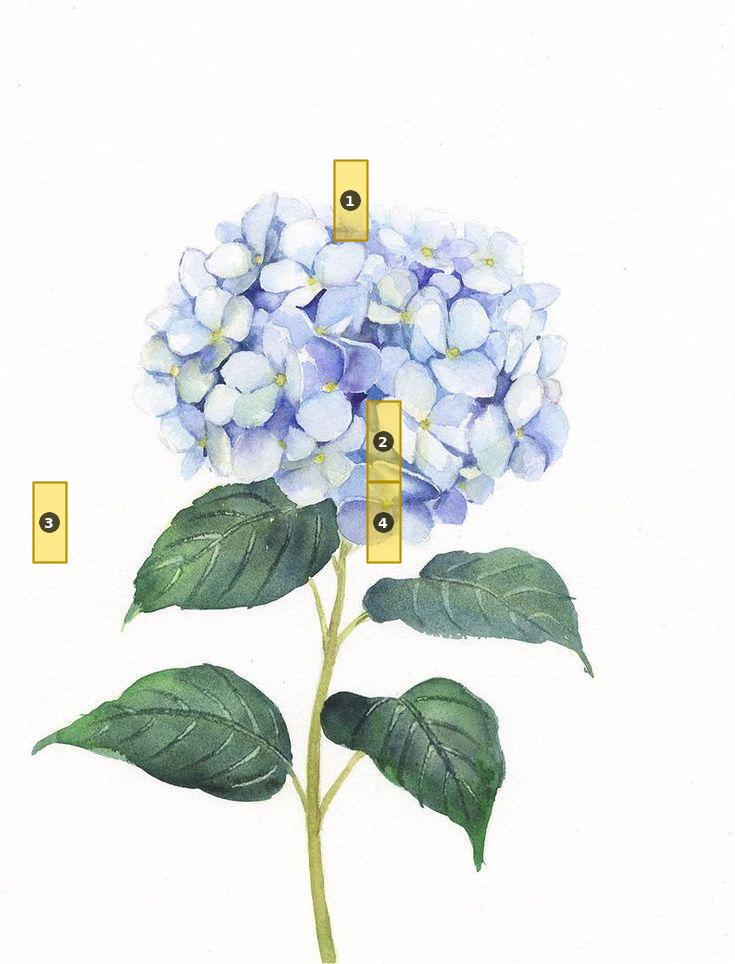
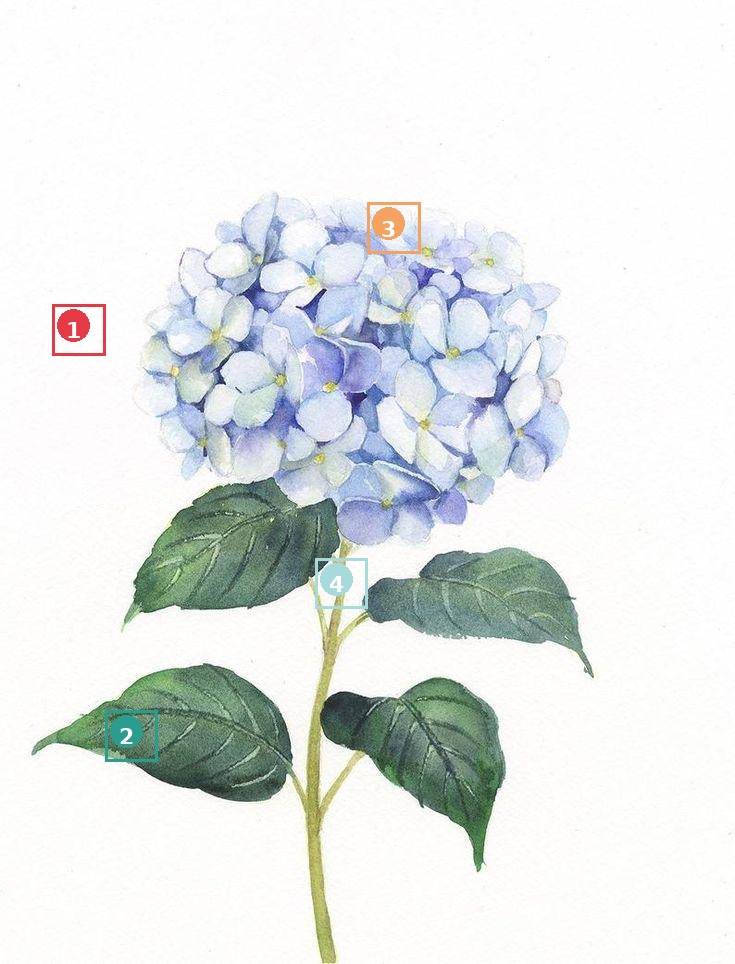
Improve hydrangea example, fix overclaiming, tighten prose
- Replace 4 near-identical flower patches with diverse selection:
  flowers, leaves, blue (color), stems — annotated with large colored badges
- ESC-50 conclusion: "not revealed by tools" not "model doesn't encode"
- Temporal figure caption: explain LogitLens absent before L28 (too few matches)
- Remove flowery "two panels tell different stories" opener
- Remove unsolicited "code available on request" note

diff --git a/gemma4-interp/index.html b/gemma4-interp/index.html
@@ -110,30 +110,35 @@ We apply two complementary probes to every visual/audio token at 12 selected lay
 <h3>Selected examples</h3>
 
 <div class="example-widget">
-  <div class="ex-label">Image 6 in demo (watercolor hydrangea), Layer 16 &mdash; purely semantic predictions, no text in image</div>
+  <div class="ex-label">Image 6 in demo (watercolor hydrangea), Layer 16 &mdash; semantic predictions across flower, leaf, color, and stem patches</div>
   <div style="display:flex;gap:20px;align-items:flex-start;margin-bottom:10px;">
-    <img src="figures/hydrangea_annotated.jpg" style="width:180px;border-radius:3px;border:1px solid #e0e0e0;flex-shrink:0;" alt="Watercolor hydrangea with highlighted patches">
+    <img src="figures/hydrangea_annotated.jpg" style="width:200px;border-radius:3px;border:1px solid #e0e0e0;flex-shrink:0;" alt="Watercolor hydrangea with highlighted patches">
     <table style="margin:0;">
-      <tr><th>#</th><th>LatentLens top predictions (normalized)</th></tr>
-      <tr><td>1</td><td>
-        <span class="pred top1">petals <span>0.269</span></span>
-        <span class="pred">flowers <span>0.236</span></span>
-      </td></tr>
-      <tr><td>2</td><td>
-        <span class="pred top1">flowers <span>0.317</span></span>
-        <span class="pred">petals <span>0.259</span></span>
-      </td></tr>
-      <tr><td>3</td><td>
-        <span class="pred top1">flowers <span>0.361</span></span>
+      <tr><th>#</th><th>Region</th><th>LatentLens top predictions (normalized)</th></tr>
+      <tr><td>1</td><td>flower cluster</td><td>
+        <span class="pred top1">flowers <span>0.362</span></span>
+        <span class="pred">flowers <span>0.287</span></span>
         <span class="pred">flor <span>0.286</span></span>
       </td></tr>
-      <tr><td>4</td><td>
-        <span class="pred top1">flowers <span>0.343</span></span>
-        <span class="pred">flor <span>0.278</span></span>
+      <tr><td>2</td><td>lower leaf</td><td>
+        <span class="pred top1">leaves <span>0.236</span></span>
+        <span class="pred">leaf <span>0.177</span></span>
+        <span class="pred">foliage <span>0.167</span></span>
+      </td></tr>
+      <tr><td>3</td><td>blue petals</td><td>
+        <span class="pred top1">blue <span>0.232</span></span>
+        <span class="pred">Blue <span>0.229</span></span>
+        <span class="pred">blue <span>0.224</span></span>
+      </td></tr>
+      <tr><td>4</td><td>stem</td><td>
+        <span class="pred top1">stems <span>0.150</span></span>
+        <span class="pred">branching <span>0.134</span></span>
+        <span class="pred">branches <span>0.118</span></span>
       </td></tr>
     </table>
   </div>
-  <span class="ex-link"><a href="demo_vision.html#image=5&layer=16&patch=85">Open Image 6, Layer 16 in demo &rarr;</a></span>
+  <p style="margin:4px 0 8px;font-size:13px;color:#555;">Patches 1&ndash;2 show semantic plant-part recognition; patch 3 shows color perception (&ldquo;blue&rdquo;) for the blue-tinted petals; patch 4 identifies the stem structure. No text in the image — all predictions are purely visual.</p>
+  <span class="ex-link"><a href="demo_vision.html#image=5&layer=16&patch=198">Open Image 6, Layer 16 in demo &rarr;</a></span>
 </div>
 
 <div class="example-widget">
@@ -165,7 +170,7 @@ LatentLens (normalized) peaks at <strong>50%</strong> of clips at layer 16 — t
 </p>
 
 <p>
-<strong>Environmental sounds (ESC-50).</strong> We separately probed 50 environmental sound clips from ESC-50 (one per category: crow, rain, chainsaw, &hellip;). Checking top-5 predictions against category keywords across all 700 clip&ndash;layer pairs yielded a single hit out of 700: &ldquo;aerodynamics&rdquo; for the airplane category at layer 40. All other predictions are unrelated vocabulary (&ldquo;expressive&rdquo;, &ldquo;poetry&rdquo;, &ldquo;karate&rdquo;, &ldquo;surroundings&rdquo;) with no connection to the playing sound. The model does not encode non-speech audio semantics at any layer.
+<strong>Environmental sounds (ESC-50).</strong> We separately probed 50 environmental sound clips from ESC-50 (one per category: crow, rain, chainsaw, &hellip;). Checking top-5 predictions against category keywords across all 700 clip&ndash;layer pairs yielded a single hit out of 700: &ldquo;aerodynamics&rdquo; for the airplane category at layer 40. All other predictions are unrelated vocabulary (&ldquo;expressive&rdquo;, &ldquo;poetry&rdquo;, &ldquo;karate&rdquo;, &ldquo;surroundings&rdquo;) with no connection to the playing sound. Neither LatentLens nor LogitLens revealed interpretable non-speech audio representations at any of the 14 probed layers.
 </p>
 
 <h3>Temporal structure</h3>
@@ -173,12 +178,12 @@ LatentLens (normalized) peaks at <strong>50%</strong> of clips at layer 16 — t
 <figure>
   <img src="figures/audio_metrics_alignment.png" alt="Absolute timing vs temporal ordering">
   <figcaption>
-    Left: fraction of tokens predicting the specific word expected at that exact timestamp (uniform speech rate assumption). Right: Spearman rank correlation between token position in the clip and matched word position in the transcript, for clips where &ge;3 unique words were matched (n=47 clips at L16).
+    Left: fraction of tokens predicting the specific word expected at that exact timestamp (uniform speech rate assumption). Right: Spearman rank correlation between token position in the clip and matched word position in the transcript, restricted to clips where &ge;3 unique words were matched. LogitLens only appears from L28 onward — at earlier layers it produces too few matches to compute the correlation.
   </figcaption>
 </figure>
 
 <p>
-The two panels tell different stories. <strong>Absolute timing</strong> (left) is low: at the peak layer (L16), only 6.4% of tokens predict the word expected at that exact moment. <strong>Ordering</strong> (right) is substantially higher: when predictions do match transcript words, they tend to appear in the correct transcript sequence (Spearman &rho;&nbsp;&asymp;&nbsp;0.78 at L16, 0.67–0.75 at L36–44).
+<strong>Absolute timing</strong> (left) is low: at the peak layer (L16), only 6.4% of tokens predict the word expected at that exact timestamp. <strong>Temporal ordering</strong> (right) is much higher: when predictions do match transcript words, they tend to appear in the correct sequence (Spearman &rho;&nbsp;&asymp;&nbsp;0.78 at L16, 0.67–0.75 at L36–44).
 </p>
 <p>
 In other words: at layer 16, the model has encoded much of the utterance's vocabulary in the correct sequence, but without precise temporal localization. The ordering finding is robust (n=47/50 clips) but not perfect — ρ of 0.78 means substantial ordering with real scatter.
@@ -222,10 +227,6 @@ Three findings appear consistently across both modalities and both probe methods
   <li><strong>LatentLens and LogitLens are complementary.</strong> LatentLens (norm.) provides the main signal in layers 8–16 (50% speech hit rate at L16); layers 24–32 are largely silent, with OCR partially recovering at L32; LogitLens does not work until ~L32 and peaks at L36 (68% speech hit rate). Non-speech environmental sounds are never interpretable at any layer.</li>
   <li><strong>Representations encode sequence before precise timing.</strong> For speech at L16, predictions match transcript words in the correct temporal order (Spearman &rho;&nbsp;&approx;&nbsp;0.78 across 47/50 clips) while exact-timestamp alignment is low (6.4%). A related pattern appears in vision: at layers 40–44 (most pronounced at L44), LogitLens on OCR patches predicts the <em>next</em> word in image text rather than the current one.</li>
 </ol>
-
-<p class="note">
-Code and data: probing scripts and result JSONs are available on request. The interactive demos below let you explore individual tokens at any layer.
-</p>
 
 <div class="demo-links">
   <a class="demo-link" href="demo_vision.html">Vision demo &rarr;</a>